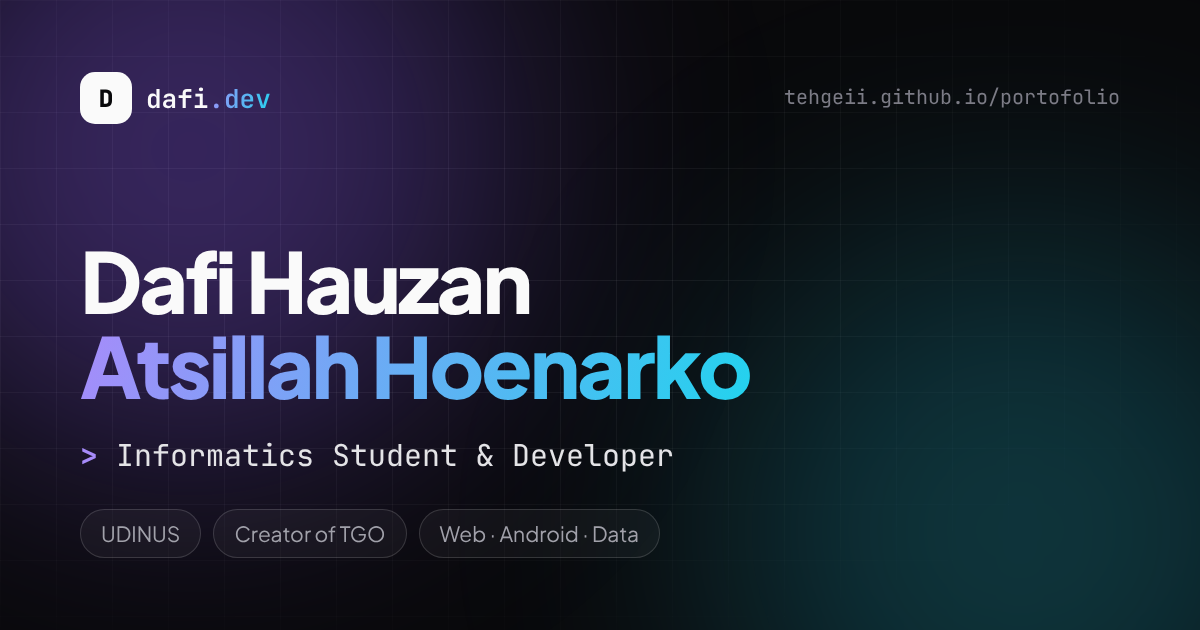
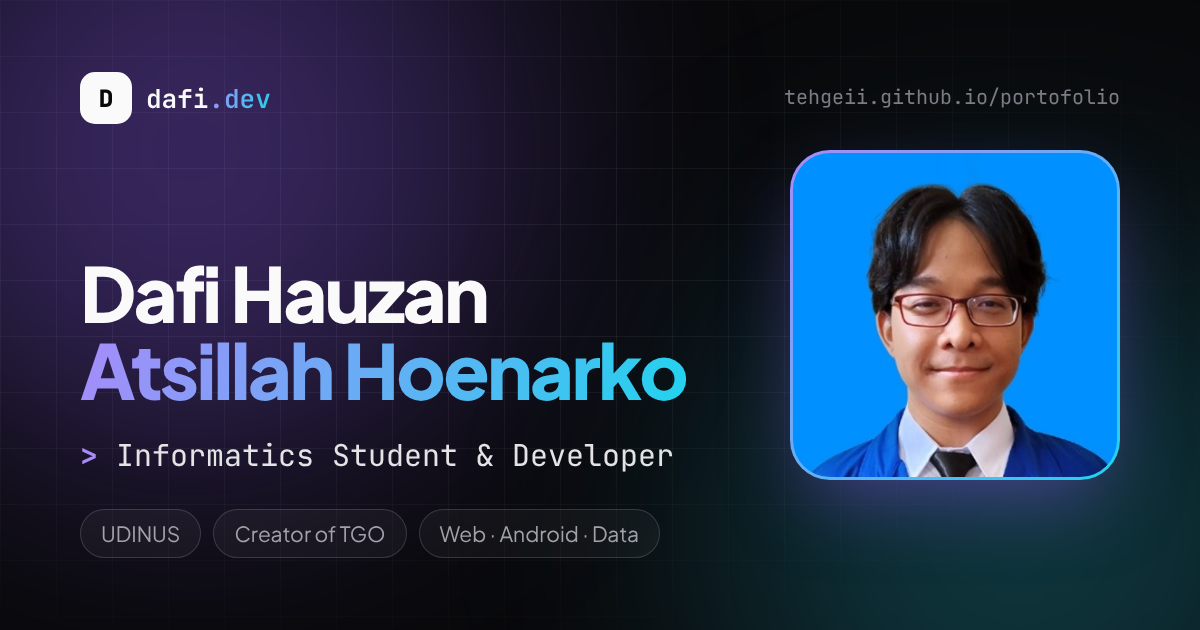
Use personal photo for the portrait and social preview
- Square crop focused on face and chest, with a little headroom
- Bundled as a hashed asset (src/assets/avatar.jpg)
- Photo added to the Open Graph preview image
- Third floating chip only on desktop so it never covers the face

Claude-Session: https://claude.ai/code/session_01Hd9hm4cgxvookjugjYDRMf

Changed region(s): [[0.0617, 0.2111, 0.9558, 0.8444]]

diff --git a/src/components/sections/Hero.tsx b/src/components/sections/Hero.tsx
@@ -249,7 +249,7 @@ function Portrait({ reduce }: { reduce: boolean }) {
       icon: Smartphone,
       title: "NgiBsen",
       sub: "Android · Kotlin",
-      className: "-right-4 top-[42%] sm:-right-10",
+      className: "-right-10 top-[42%] hidden lg:block",
       delay: "-2s",
     },
     {
@@ -277,11 +277,12 @@ function Portrait({ reduce }: { reduce: boolean }) {
             <img
               src={profile.avatar}
               alt={profile.name}
-              width={460}
-              height={460}
+              width={358}
+              height={358}
+              decoding="async"
               fetchPriority="high"
               onError={() => setImgFailed(true)}
-              className="size-full object-cover"
+              className="size-full object-cover object-top"
             />
           )}
           <div

diff --git a/src/data/profile.ts b/src/data/profile.ts
@@ -1,3 +1,4 @@
+import avatar from "../assets/avatar.jpg";
 import type { Localized, LocalizedList } from "../types";
 
 /**
@@ -19,7 +20,8 @@ export const profile = {
   shortName: "Dafi",
   username: "tehgeii",
   email: "antsters9@gmail.com",
-  avatar: "https://avatars.githubusercontent.com/u/121181566?v=4",
+  /** Profile photo, cropped to face & chest. Replace src/assets/avatar.jpg to change it. */
+  avatar,
   website: "https://tgopremium.my.id",
   siteUrl: "https://tehgeii.github.io/portofolio/",
 

diff --git a/README.md b/README.md
@@ -52,7 +52,7 @@ Semua isi website ada di folder [`src/data`](src/data), jadi tidak perlu menyent
 
 Setiap teks punya versi `id` dan `en`. TypeScript akan memberi tahu kalau ada terjemahan yang terlewat.
 
-Foto profil saat ini memakai avatar GitHub. Untuk memakai foto lain, taruh file di `public/` (misalnya `public/avatar.jpg`) lalu ubah `avatar` di `profile.ts` menjadi `"./avatar.jpg"`.
+Foto profil ada di [`src/assets/avatar.jpg`](src/assets/avatar.jpg) (rasio 1:1, fokus wajah & dada). Untuk menggantinya, timpa file tersebut dengan foto persegi baru dengan nama yang sama.
 
 ## 🌍 Deploy ke GitHub Pages
 
